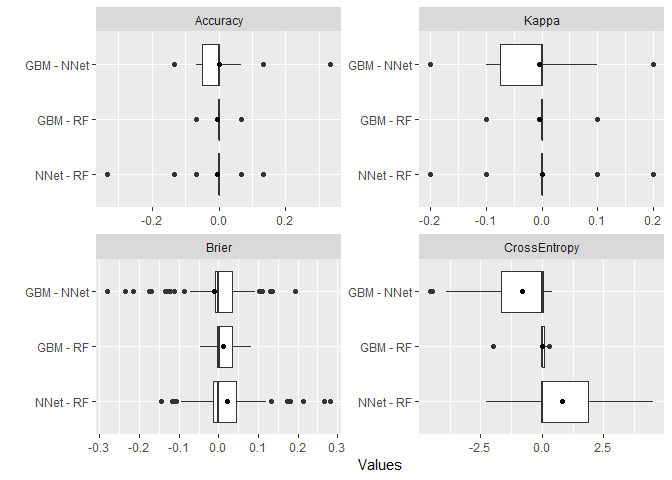
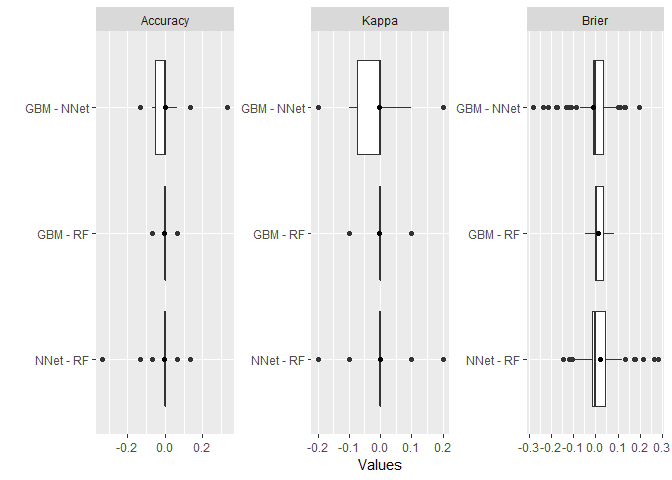
Drop cross_entropy, pr_auc, roc_index, and weighted_kappa from modelmetrics defaults

diff --git a/README.md b/README.md
@@ -1589,8 +1589,8 @@ predict(gbmfit, newdata = test) %>% head
 obs <- response(fo, data = test)
 pred <- predict(gbmfit, newdata = test, type = "prob")
 modelmetrics(obs, pred)
-#>     Accuracy        Kappa        Brier CrossEntropy 
-#>    0.9200000    0.8793727    0.1570015    0.4522663
+#>  Accuracy     Kappa     Brier 
+#> 0.9200000 0.8793727 0.1570015
 ```
 
 ### Resampling
@@ -1617,11 +1617,10 @@ modelmetrics(obs, pred)
 #> Seed: 9279906
 
 summary(res)
-#>                    Mean     Median         SD          Min       Max NA
-#> Accuracy     0.93333333 0.93333333 0.06285394 8.000000e-01 1.0000000  0
-#> Kappa        0.90000000 0.90000000 0.09428090 7.000000e-01 1.0000000  0
-#> Brier        0.09409409 0.08887763 0.08302550 5.911564e-07 0.2260197  0
-#> CrossEntropy 0.22653409 0.12128540 0.23089382 3.321915e-04 0.5716866  0
+#>                Mean     Median         SD          Min       Max NA
+#> Accuracy 0.93333333 0.93333333 0.06285394 8.000000e-01 1.0000000  0
+#> Kappa    0.90000000 0.90000000 0.09428090 7.000000e-01 1.0000000  0
+#> Brier    0.09409409 0.08887763 0.08302550 5.911564e-07 0.2260197  0
 
 plot(res)
 ```
@@ -1633,17 +1632,18 @@ plot(res)
 ``` r
 ## Default metrics
 modelmetrics(res) %>% summary
-#>                    Mean     Median         SD          Min       Max NA
-#> Accuracy     0.93333333 0.93333333 0.06285394 8.000000e-01 1.0000000  0
-#> Kappa        0.90000000 0.90000000 0.09428090 7.000000e-01 1.0000000  0
-#> Brier        0.09409409 0.08887763 0.08302550 5.911564e-07 0.2260197  0
-#> CrossEntropy 0.22653409 0.12128540 0.23089382 3.321915e-04 0.5716866  0
+#>                Mean     Median         SD          Min       Max NA
+#> Accuracy 0.93333333 0.93333333 0.06285394 8.000000e-01 1.0000000  0
+#> Kappa    0.90000000 0.90000000 0.09428090 7.000000e-01 1.0000000  0
+#> Brier    0.09409409 0.08887763 0.08302550 5.911564e-07 0.2260197  0
 
 ## User-specified metrics
-modelmetrics(res, c("accuracy", "brier")) %>% summary
-#>                Mean     Median         SD          Min       Max NA
-#> accuracy 0.93333333 0.93333333 0.06285394 8.000000e-01 1.0000000  0
-#> brier    0.09409409 0.08887763 0.08302550 5.911564e-07 0.2260197  0
+modelmetrics(res, c("accuracy", "kappa", "brier", "cross_entropy")) %>% summary
+#>                     Mean     Median         SD          Min       Max NA
+#> accuracy      0.93333333 0.93333333 0.06285394 8.000000e-01 1.0000000  0
+#> kappa         0.90000000 0.90000000 0.09428090 7.000000e-01 1.0000000  0
+#> brier         0.09409409 0.08887763 0.08302550 5.911564e-07 0.2260197  0
+#> cross_entropy 0.22653409 0.12128540 0.23089382 3.321915e-04 0.5716866  0
 ```
 
 ### Model Tuning
@@ -1703,13 +1703,6 @@ summary(res)
 #> GBM  0.07783400 0.05344164 0.08337132  4.209652e-05 0.3737446  0
 #> NNet 0.08817998 0.07923248 0.10063333 1.534123e-128 0.3461743  0
 #> RF   0.06661013 0.05184000 0.06626315  1.066667e-04 0.2900267  0
-#> 
-#> , , CrossEntropy
-#> 
-#>           Mean     Median        SD          Min      Max NA
-#> GBM  0.1604127 0.07742612 0.1814859 4.246844e-03 0.698241  0
-#> NNet 0.9616760 0.10613138 1.4459688 9.992007e-16 4.616531  0
-#> RF   0.1493899 0.08163460 0.3270301 2.693694e-03 2.309432  0
 
 plot(res)
 ```
@@ -1740,13 +1733,6 @@ summary(perfdiff)
 #> GBM - NNet -0.01034598  0.0001118562 0.09446451 -0.2806182 0.1947900  0
 #> GBM - RF    0.01122386  0.0010026275 0.02685602 -0.0466223 0.0837179  0
 #> NNet - RF   0.02156984 -0.0004582727 0.09079066 -0.1456573 0.2819733  0
-#> 
-#> , , CrossEntropy
-#> 
-#>                   Mean        Median       SD       Min       Max NA
-#> GBM - NNet -0.80126332 -0.0020344090 1.368773 -4.545699 0.4079516  0
-#> GBM - RF    0.01102275  0.0023308900 0.301429 -1.968996 0.3030778  0
-#> NNet - RF   0.81228607 -0.0005722104 1.463221 -2.276271 4.5255550  0
 
 t.test(perfdiff)
 #> An object of class "HTestResamples"
@@ -1775,13 +1761,6 @@ t.test(perfdiff)
 #> GBM          NA -0.01034598 0.01122386
 #> NNet 0.44239148          NA 0.02156984
 #> RF   0.01437771  0.19867388         NA
-#> 
-#> , , CrossEntropy
-#> 
-#>               GBM          NNet         RF
-#> GBM            NA -0.8012633185 0.01102275
-#> NNet 0.0004099413            NA 0.81228607
-#> RF   0.7970447305  0.0005407729         NA
 
 plot(perfdiff)
 ```
@@ -1794,20 +1773,18 @@ plot(perfdiff)
 ## Stacked regression
 stackedres <- resample(fo, data = iris, model = StackedModel(GBMModel, RandomForestModel, NNetModel))
 summary(stackedres)
-#>                    Mean     Median         SD          Min       Max NA
-#> Accuracy     0.95333333 1.00000000 0.07062333 0.8000000000 1.0000000  0
-#> Kappa        0.93000000 1.00000000 0.10593499 0.7000000000 1.0000000  0
-#> Brier        0.07335238 0.03767302 0.07811142 0.0004827869 0.2078096  0
-#> CrossEntropy 0.12530271 0.08386945 0.09860897 0.0081014136 0.2687249  0
+#>                Mean     Median         SD          Min       Max NA
+#> Accuracy 0.95333333 1.00000000 0.07062333 0.8000000000 1.0000000  0
+#> Kappa    0.93000000 1.00000000 0.10593499 0.7000000000 1.0000000  0
+#> Brier    0.07335238 0.03767302 0.07811142 0.0004827869 0.2078096  0
 
 ## Super learners
 superres <- resample(fo, data = iris, model = SuperModel(GBMModel, RandomForestModel, NNetModel))
 summary(superres)
-#>                    Mean     Median         SD          Min       Max NA
-#> Accuracy     0.96000000 1.00000000 0.06440612 0.8000000000 1.0000000  0
-#> Kappa        0.94000000 1.00000000 0.09660918 0.7000000000 1.0000000  0
-#> Brier        0.07929339 0.01444121 0.11627751 0.0002255191 0.3615479  0
-#> CrossEntropy 0.24601571 0.02924794 0.33266195 0.0040190790 0.8840239  0
+#>                Mean     Median         SD          Min       Max NA
+#> Accuracy 0.96000000 1.00000000 0.06440612 0.8000000000 1.0000000  0
+#> Kappa    0.94000000 1.00000000 0.09660918 0.7000000000 1.0000000  0
+#> Brier    0.07929339 0.01444121 0.11627751 0.0002255191 0.3615479  0
 ```
 
 ### Calibration Curves
@@ -1832,7 +1809,7 @@ plot(cal, se = TRUE)
 
 summary(conf)
 #> GBMModel :
-#> Resampled cases: 750
+#> Number of responses: 750
 #> Accuracy (SE): 0.9440408 (0.008392678)
 #> Majority class: 0.3333333
 #> Kappa: 0.9160612
@@ -1908,9 +1885,8 @@ varimp(fit_rec)
 
 res_rec <- resample(rec, model = GBMModel, control = CVControl)
 summary(res_rec)
-#>                    Mean     Median         SD          Min       Max NA
-#> Accuracy     0.96666667 0.96666667 0.03513642 0.9333333333 1.0000000  0
-#> Kappa        0.95000000 0.95000000 0.05270463 0.9000000000 1.0000000  0
-#> Brier        0.06610658 0.04903953 0.06497069 0.0001102322 0.1538771  0
-#> CrossEntropy 0.13447047 0.07707345 0.13933180 0.0034826883 0.3941076  0
+#>                Mean     Median         SD          Min       Max NA
+#> Accuracy 0.96666667 0.96666667 0.03513642 0.9333333333 1.0000000  0
+#> Kappa    0.95000000 0.95000000 0.05270463 0.9000000000 1.0000000  0
+#> Brier    0.06610658 0.04903953 0.06497069 0.0001102322 0.1538771  0
 ```
